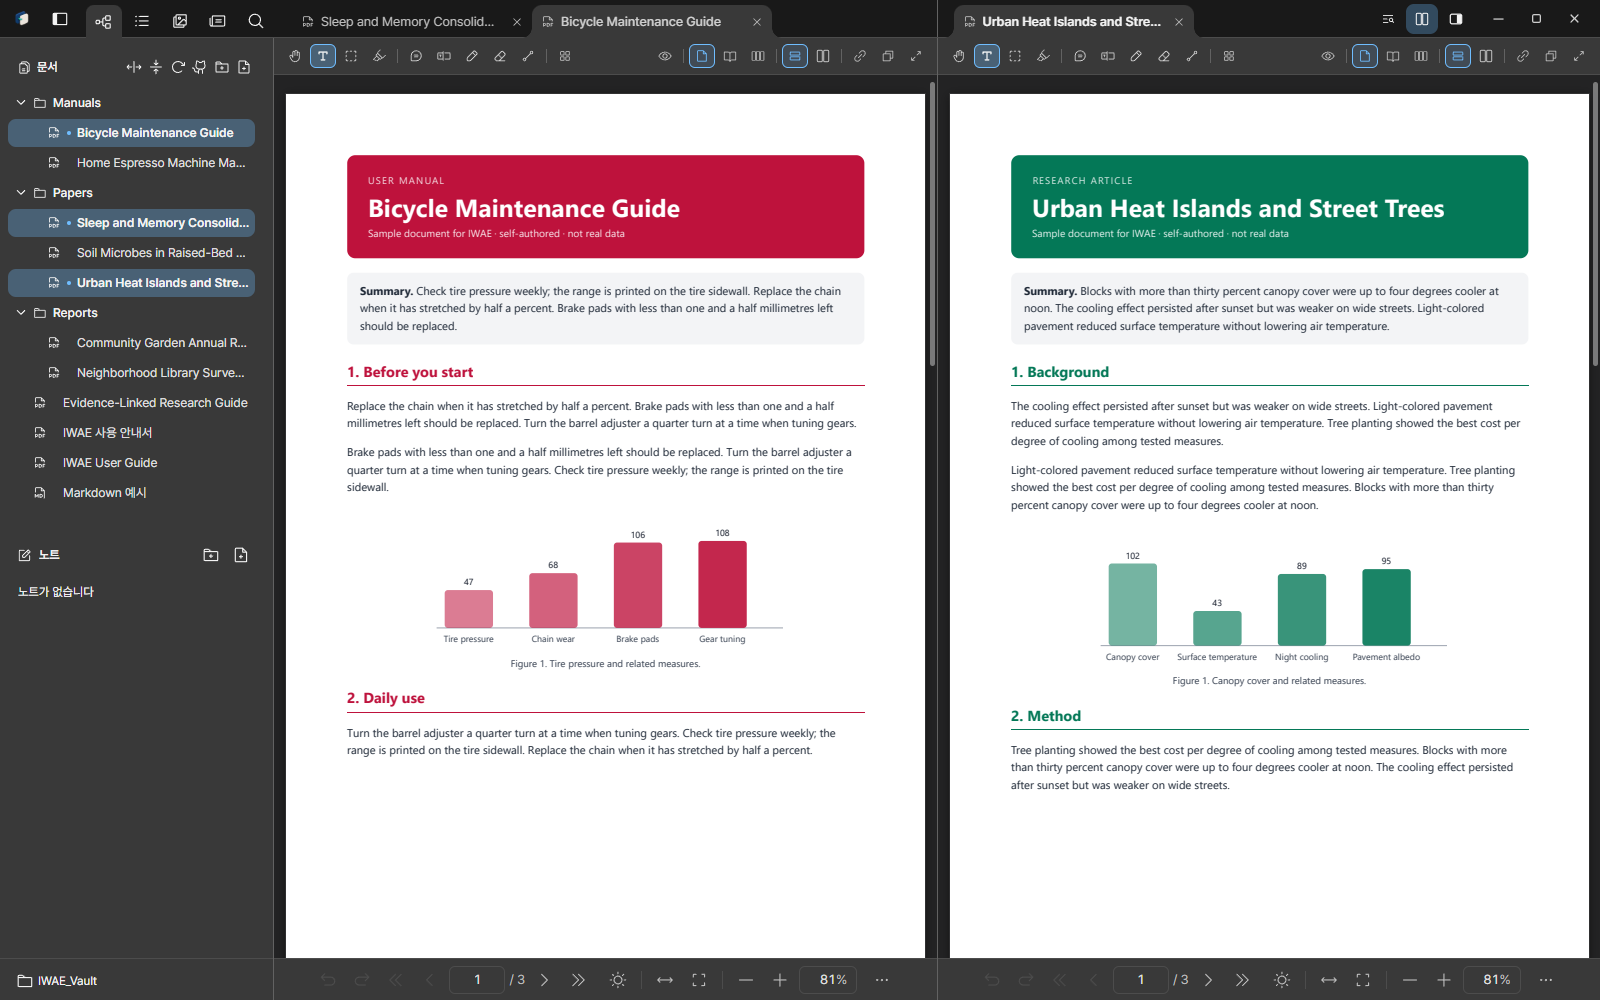
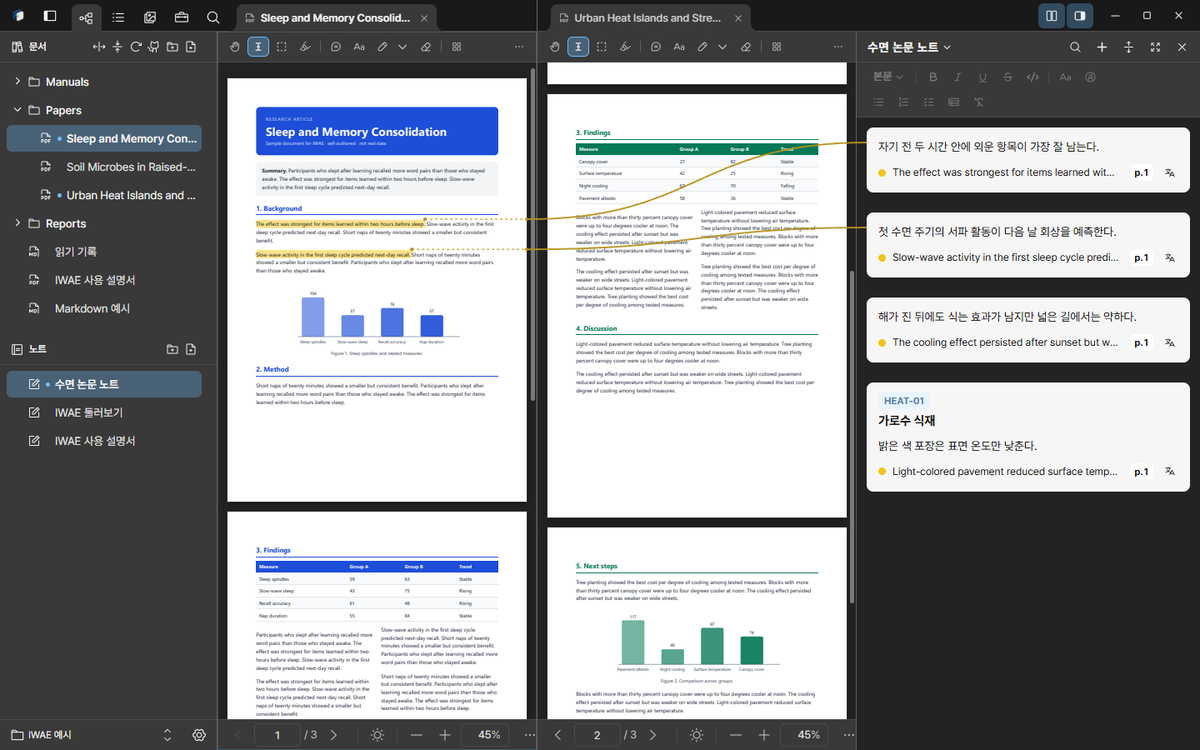
Re-record README GIFs in one example Vault per language
Every clip now uses the IWAE 예시 / IWAE Example Vault with a named note
open beside the documents. Adds hero, tab-drag, library, pdf-tools and
themes clips, refreshes the split-view stills and drops the unused
open-and-split clip. Alt texts follow what the clips show.

diff --git a/README.md b/README.md
@@ -19,9 +19,8 @@
 
 <p align="center"><a href="README.ko.md">한국어</a></p>
 
-<!-- HERO MEDIA: replace the file below with docs/images/hero.gif (20-30 s: open PDF, highlight, memo with connector, click to jump back, split and drag a tab, switch theme). Korean README uses docs/images/hero.ko.gif. -->
 <p align="center">
-  <img src="docs/images/open-and-split.gif" width="900" alt="Opening PDFs from the folder tree into tabs, then splitting the window to read two side by side">
+  <img src="docs/images/hero.gif" width="900" alt="Highlighting a sentence in a paper to get a memo, clicking a memo to jump back, dragging a tab to split the view so connector lines cross panes, and switching to the light theme and back">
 </p>
 
 > **Status:** alpha. Reading, memos, notes and storage work well, but the interface and file formats may still change.
@@ -36,7 +35,7 @@ Most PDF readers open one file at a time and leave the organizing to your file m
 - **Yours, and local.** Everything is stored in your Vault folder. Only text you choose to translate with a cloud service, or an external AI you connect yourself, ever leaves your PC.
 
 <p align="center">
-  <img src="docs/images/split-view.png" width="900" alt="IWAE with a folder tree on the left and two PDFs open side by side">
+  <img src="docs/images/split-view.png" width="900" alt="IWAE with a folder tree on the left, two papers side by side and a note whose connector lines cross both panes">
 </p>
 
 ## Quick start
@@ -57,7 +56,11 @@ The guide ([PDF](public/sample-vault/iwae-manual.en.pdf), [한국어 PDF](public
 - **Versions:** group the draft, revised and final files of one document and switch between them.
 - **Import from GitHub:** bring in a folder of Markdown documents; the toolbar tells you when there are new commits.
 
-<!-- MEDIA TODO: docs/images/library.gif (library expand, table and cards), docs/images/versions.gif -->
+<p align="center">
+  <img src="docs/images/library.gif" width="900" alt="Expanding the library, switching between cards and a table, filtering to recently opened documents, and opening a paper from its card">
+</p>
+
+<!-- MEDIA TODO: docs/images/versions.gif -->
 
 ### Read side by side
 
@@ -68,10 +71,8 @@ The guide ([PDF](public/sample-vault/iwae-manual.en.pdf), [한국어 PDF](public
 - Hover a link or a reference such as `Table 5` or `Section 3.2` to preview it; click to jump and go back with the mouse back button.
 
 <p align="center">
-  <img src="docs/images/open-and-split.gif" width="900" alt="Opening PDFs from the folder tree into tabs, then splitting the window to read two side by side">
+  <img src="docs/images/tab-drag.gif" width="900" alt="Reordering tabs, dragging a tab to a pane edge to split the view, and moving tabs between panes while the note stays open">
 </p>
-
-<!-- MEDIA TODO: docs/images/tab-drag.gif (reorder, dock to edge, drag out to a window, drag back) -->
 
 ### Highlight, memo, and jump back
 
@@ -136,7 +137,9 @@ Everything runs on your PC. Most tools can apply to the original or write a copy
 | Layout | Page numbers, watermark, crop margins, N-up, compress |
 | Export | Pages as PNG, text as Markdown, unlocked copy of a password-protected PDF |
 
-<!-- MEDIA TODO: docs/images/pdf-tools.gif (open the PDF tools tab, expand a tool, run page numbers as a copy) -->
+<p align="center">
+  <img src="docs/images/pdf-tools.gif" width="900" alt="Running Add page numbers as a copy from PDF tools, then briefly opening the page editor">
+</p>
 
 ### Translation
 
@@ -166,7 +169,9 @@ Markdown files open in tabs next to your PDFs, with headings, tables, code, task
 - **Your own highlight colors:** up to eight named colors.
 - Interface size, Korean or English, and six Markdown document themes.
 
-<!-- MEDIA TODO: docs/images/themes.gif (brightness, color scheme, accent, theme editor) -->
+<p align="center">
+  <img src="docs/images/themes.gif" width="900" alt="Changing brightness, color scheme and accent color, then trying colors in the new-theme editor">
+</p>
 
 ### Safe by design
 
